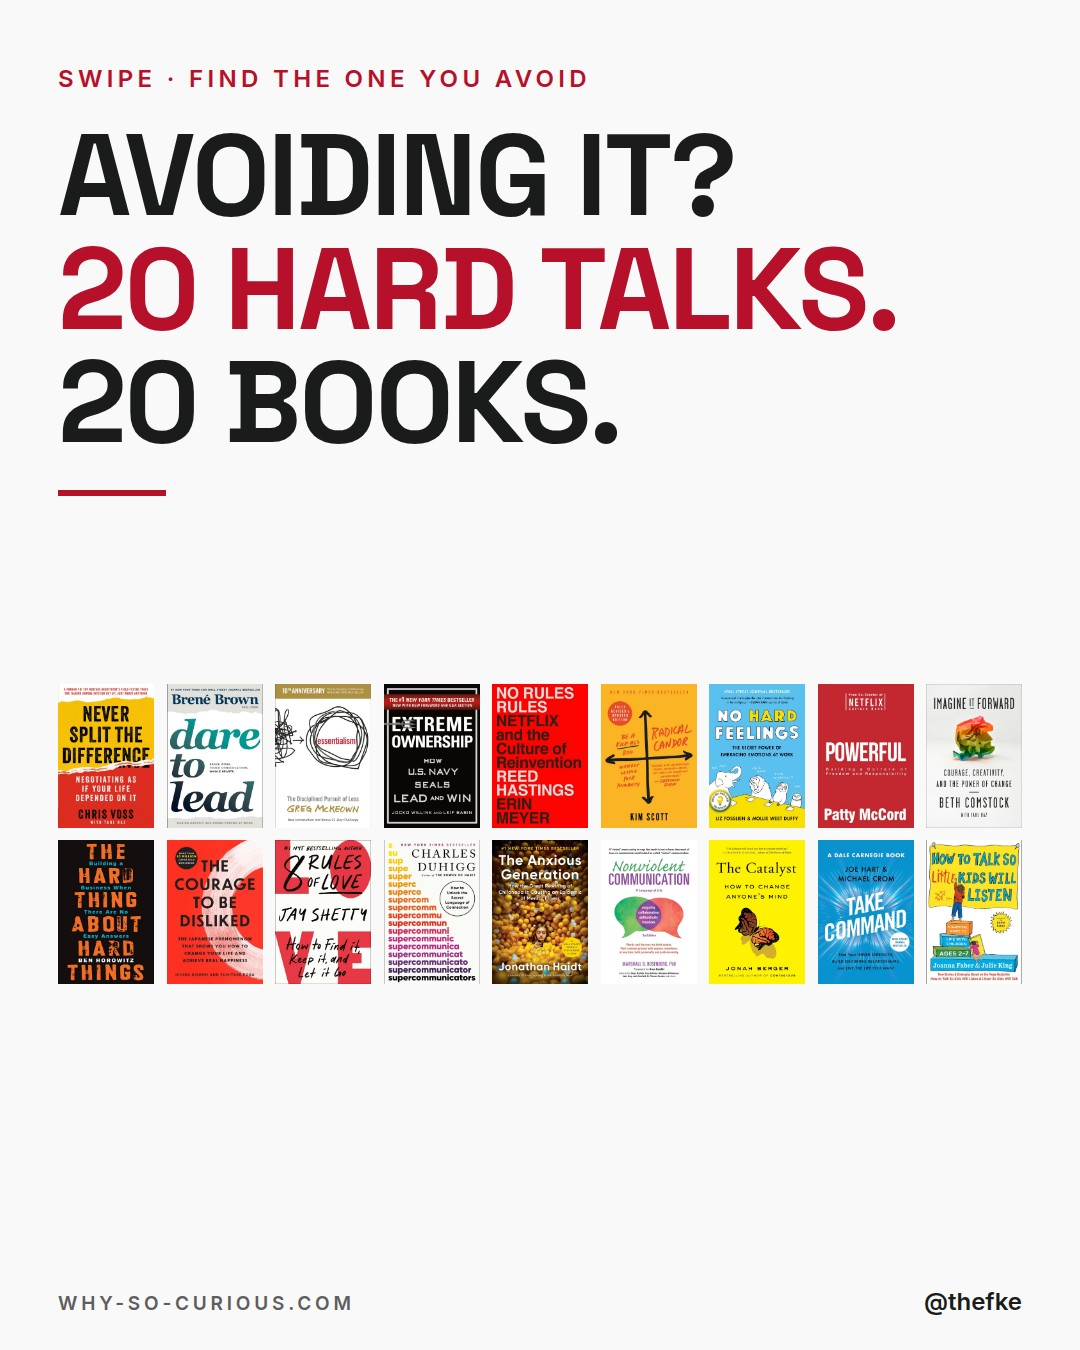
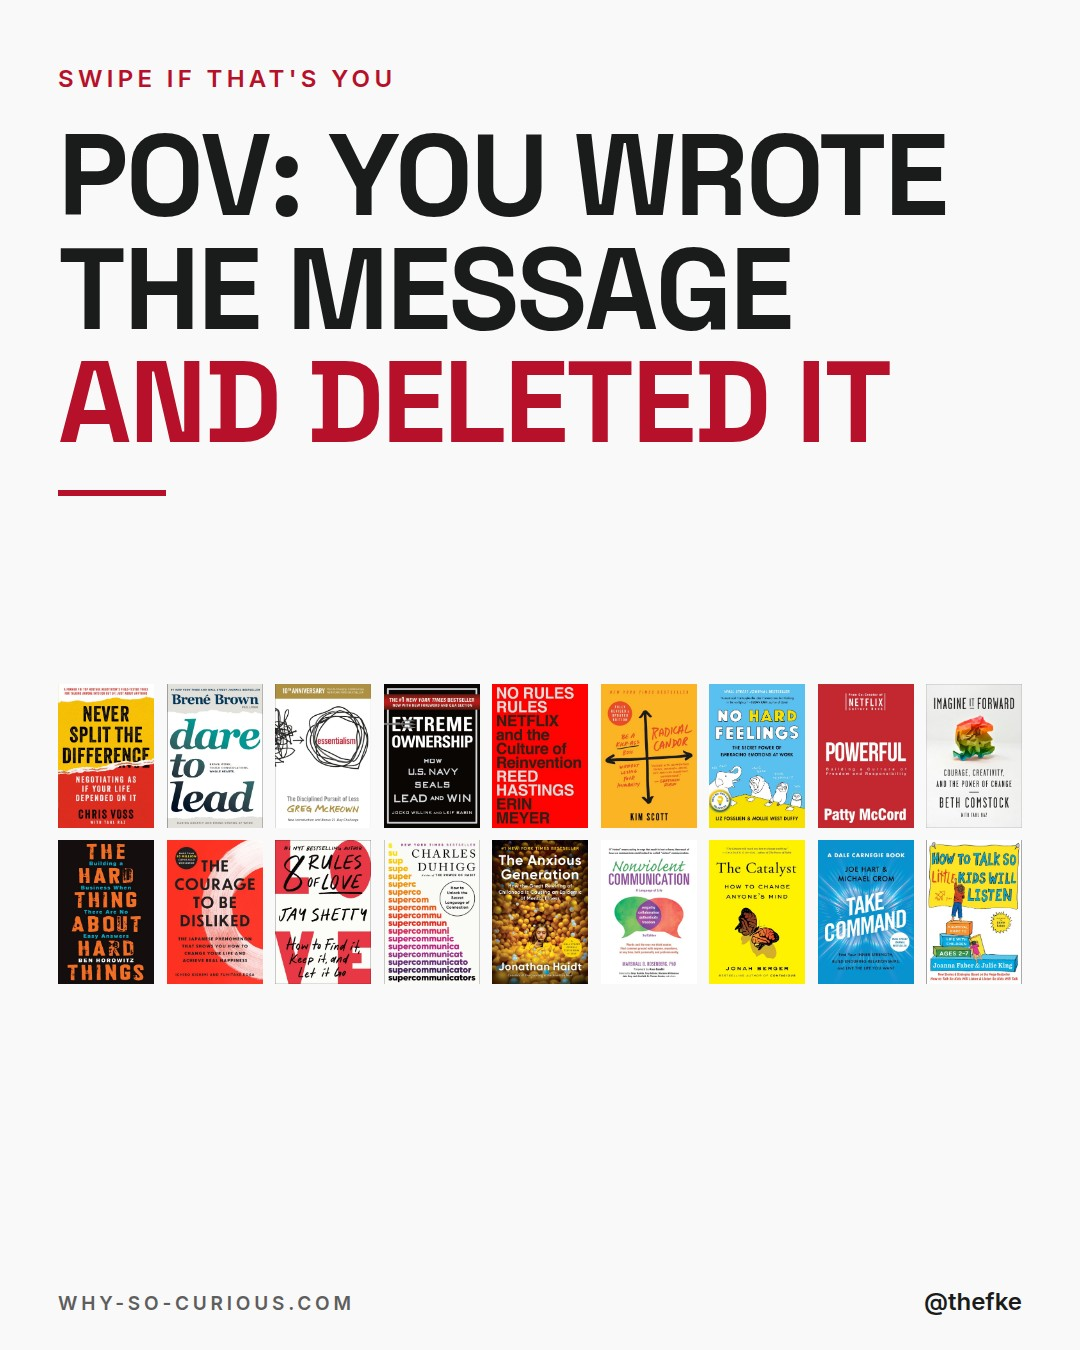
plan: Hook-Test 22. bis 25.10., Slide 1 spricht das Problem an (#17)
Claude-Session: https://claude.ai/code/session_01KcigGeVzixaDUVFYyReTWp

Changed region(s): [[0.0611, 0.0933, 0.8861, 0.3422], [0.1528, 0.0311, 0.3667, 0.0622], [0.3972, 0.0311, 0.55, 0.0622]]

diff --git a/plan/README.md b/plan/README.md
@@ -101,4 +101,5 @@ Hinweise:
 - Ab 11.10. gemischt: Nummern-Posts und Winkel-Posts im Wechsel, gleiche Reihen mit Abstand. Auswertung nach 4 Wochen, am 08.11.
 - Ab 14.10. jeden dritten Tag ein Einzelbild (Kassenbon, Klebezettel, Konfigurator), 9 Stück bis 07.11. Der Rest rückt nach, Jahresende-Posts jetzt 30.12. bis 01.01.
 - Seit 10.10. keine Reels mehr. Das Reel vom 06.10. kam auf 886 Aufrufe, die Karussells davor auf 7.345 und 9.219.
+- Hook-Test ab 22.10.: Slide 1 spricht das Problem an, statt den Inhalt anzukündigen. 22.10. POV, 24.10. „If you…“, 25.10. Leser-Zitat. Vergleich mit den Posts davor bei der Auswertung am 08.11.
 - `plan/` wird nie automatisch gepostet. Automatisch geht nur, was in `queue/` liegt.

diff --git a/plan/2026-10-25-12-money-lies/README.md b/plan/2026-10-25-12-money-lies/README.md
@@ -5,8 +5,8 @@ Karussell, 5 Slides. Beim Hochladen 4:5 wählen.
 ## Caption
 
 ```
-12 lies about money.
-Most of us grew up with a few of them.
+“I'm just bad with money.” Most of us have said it.
+Usually it's a lie you picked up early, like these:
 
 “Save whatever is left over.”
 “Rich people drive nice cars.”

diff --git a/plan/2026-10-22-hard-conversations/README.md b/plan/2026-10-22-hard-conversations/README.md
@@ -5,6 +5,9 @@ Karussell, 4 Slides. Beim Hochladen 4:5 wählen.
 ## Caption
 
 ```
+Typed it. Deleted it. Typed it again.
+Some talks don't fit in a text.
+
 20 conversations we keep putting off.
 
 Asking for a raise.
